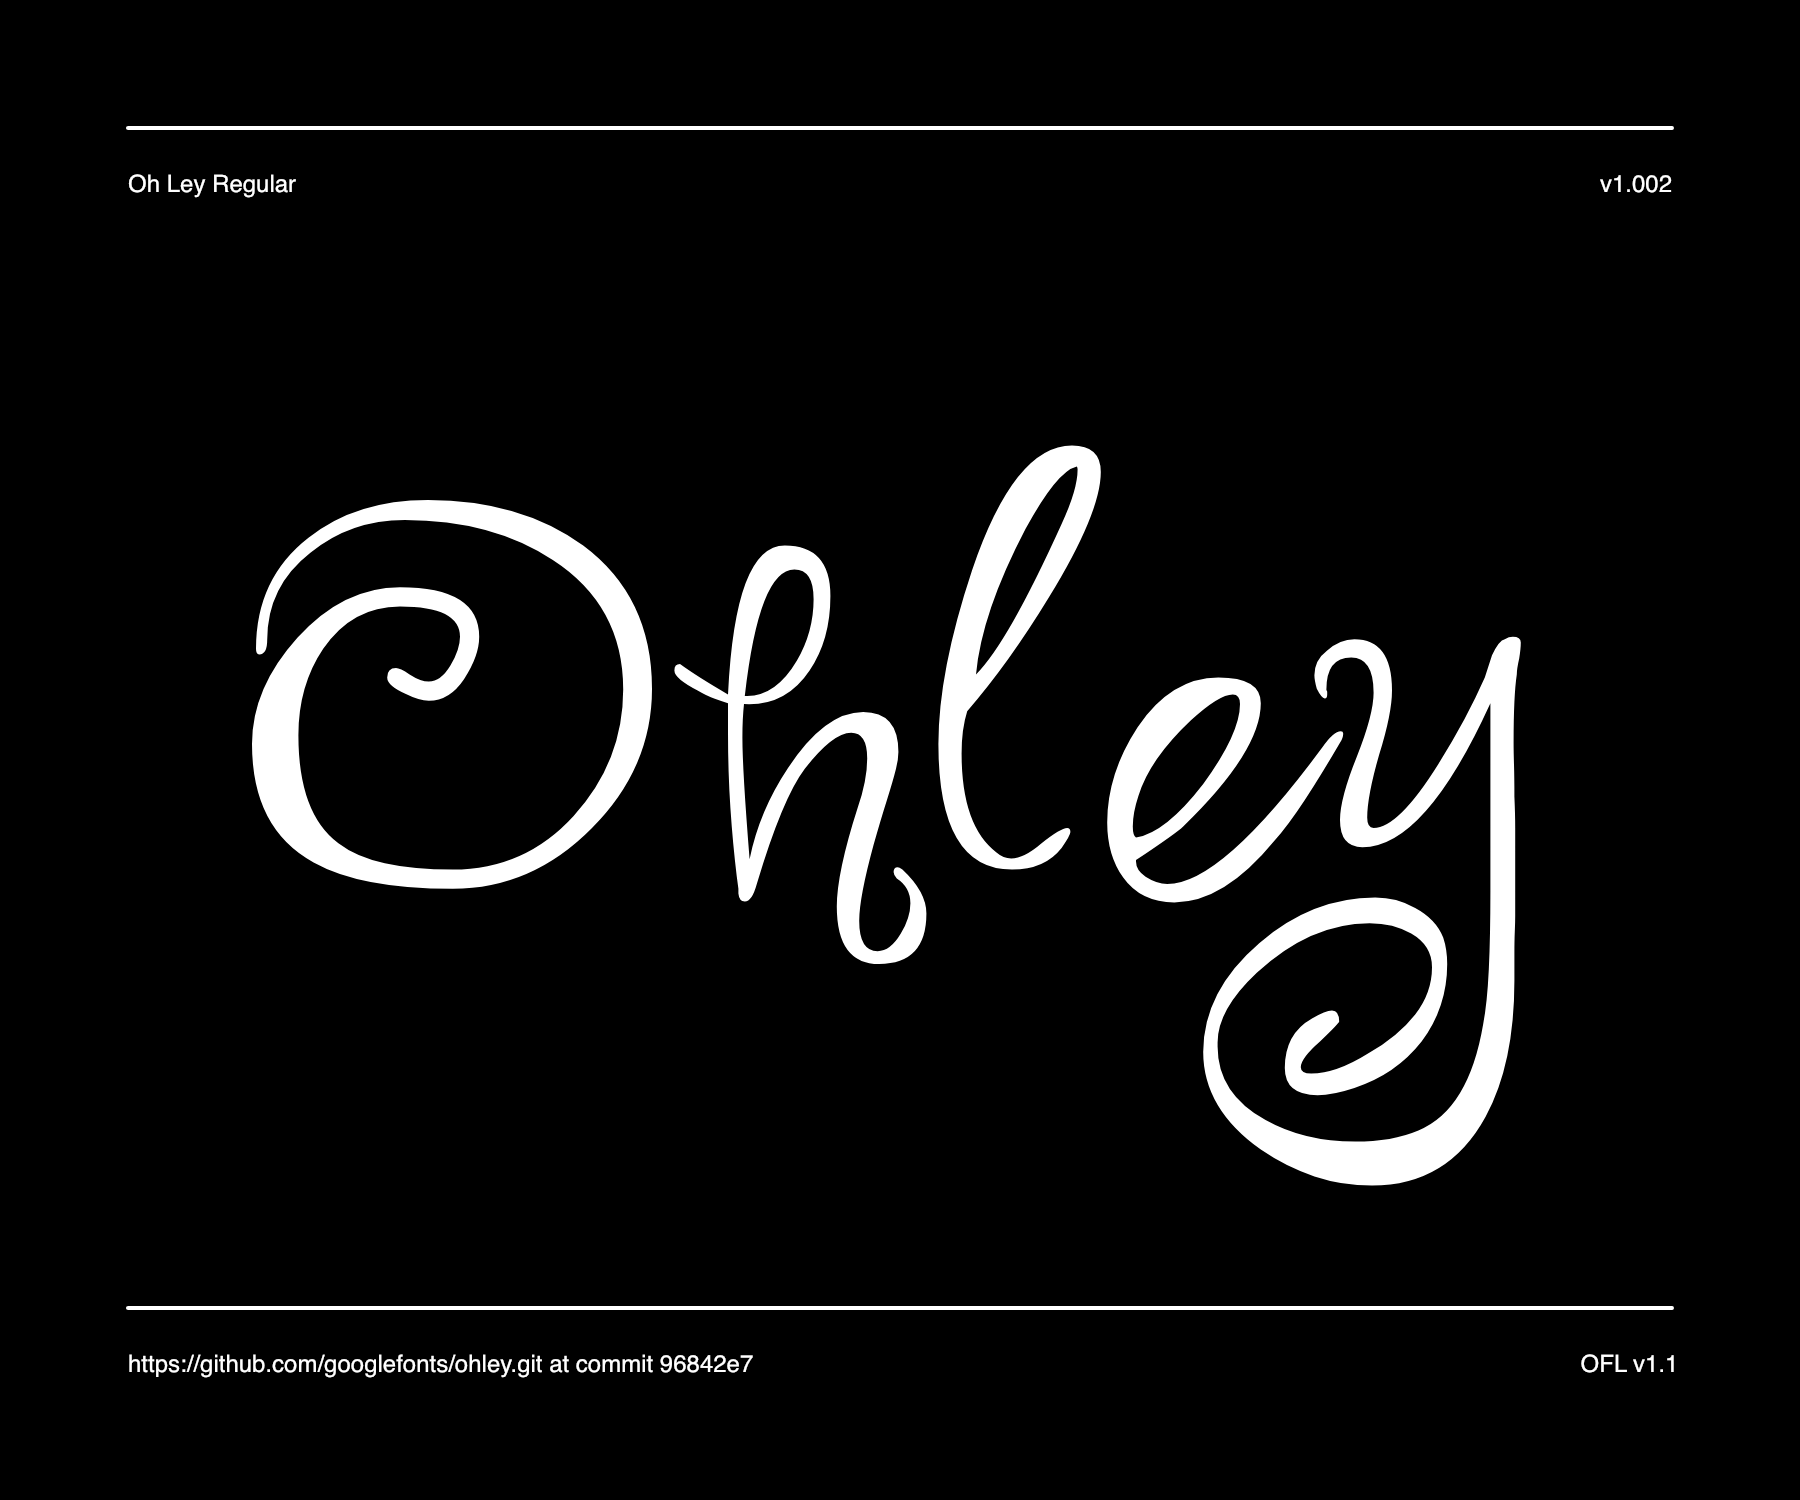
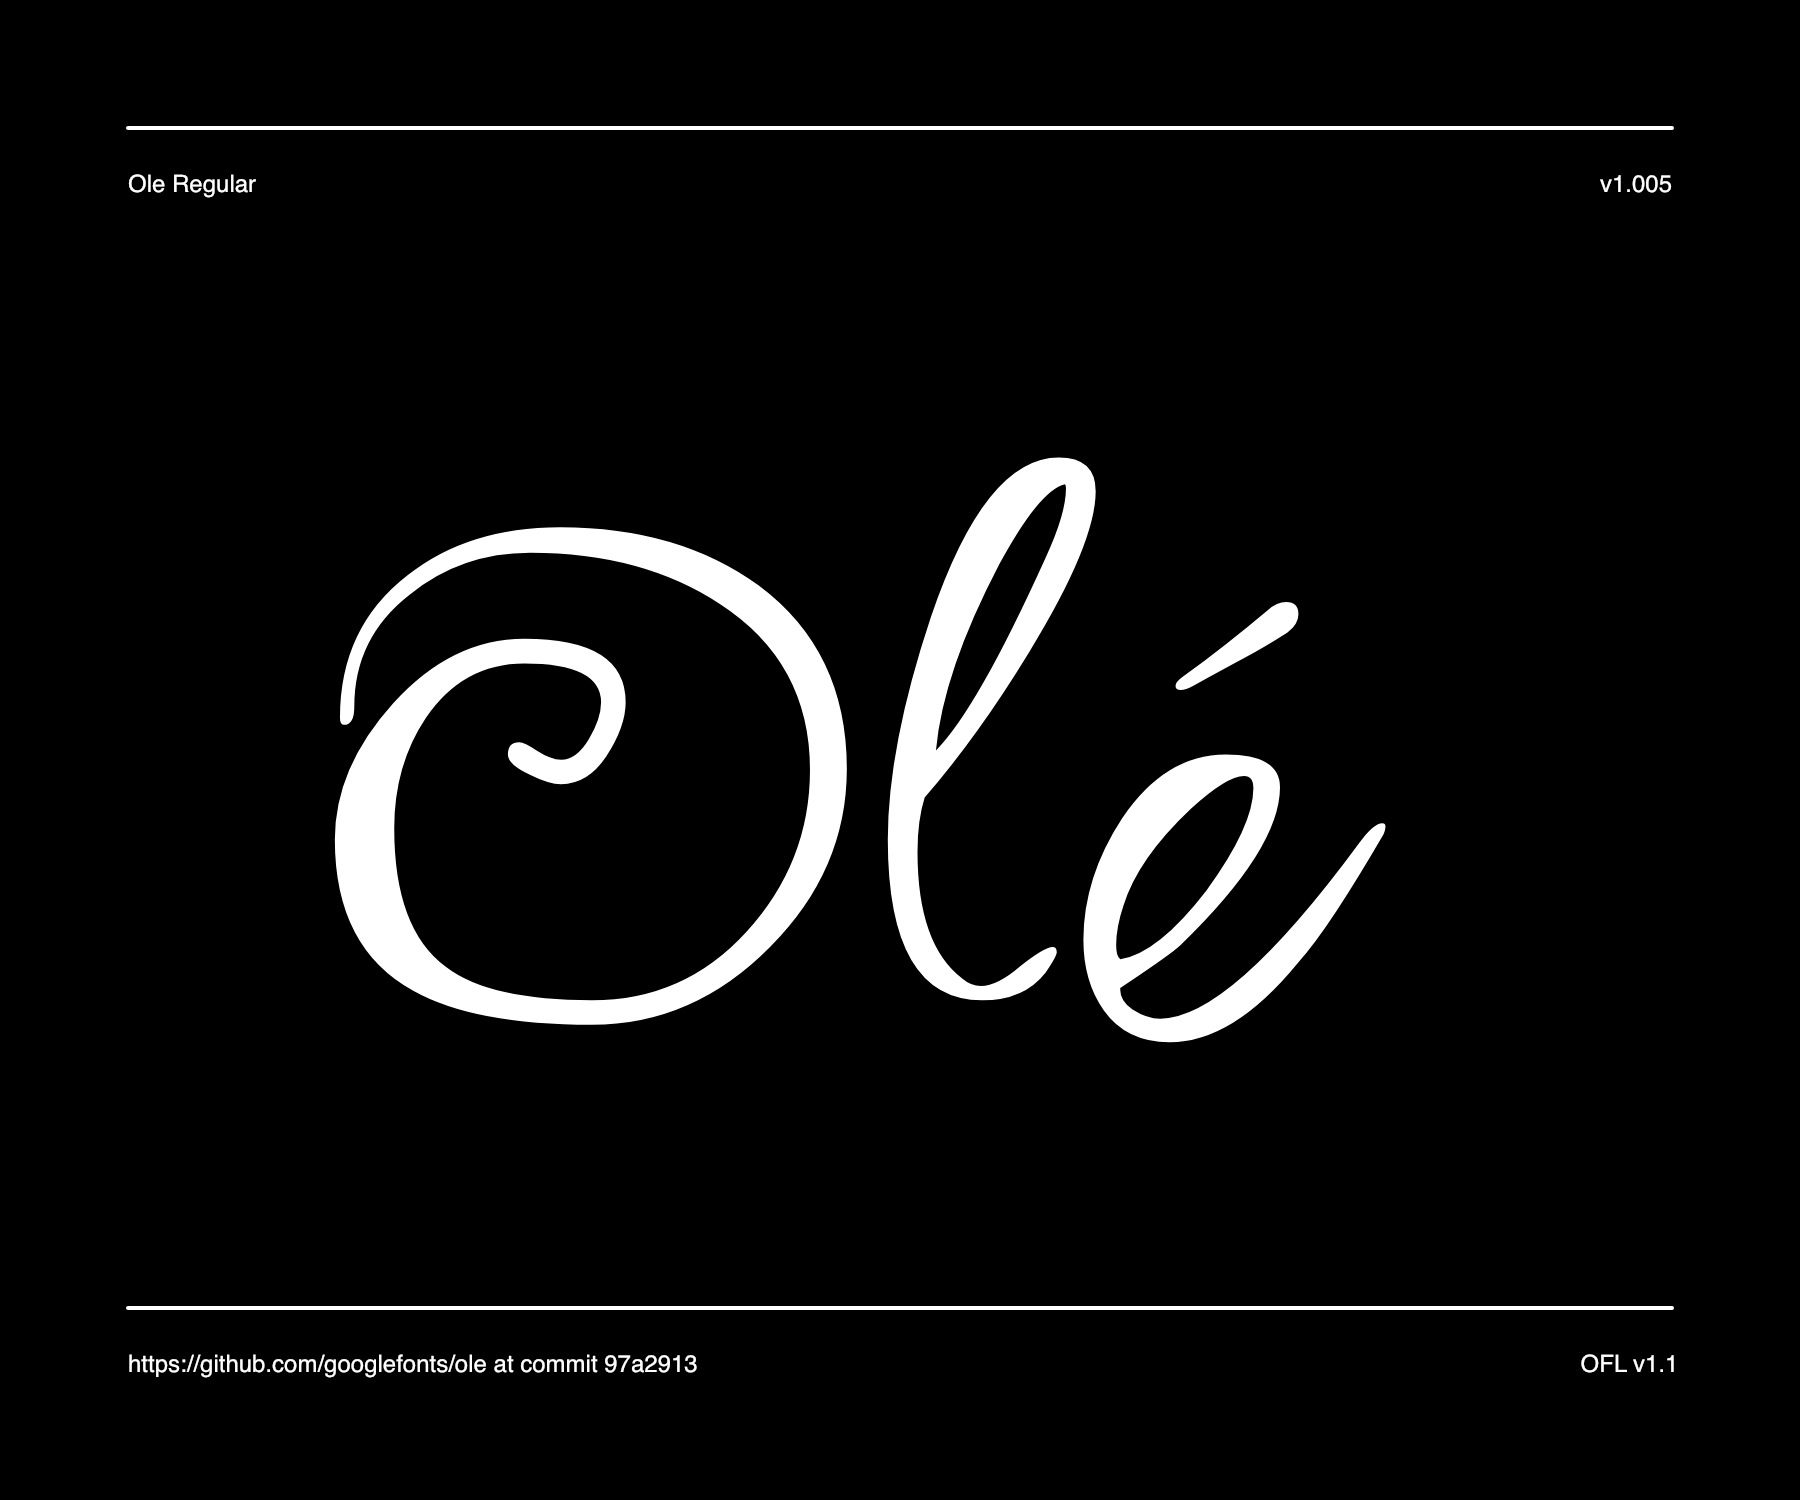
Readme + sample image updated

Changed region(s): [[0.1244, 0.276, 0.8711, 0.7973], [0.2489, 0.8893, 0.4044, 0.92], [0.0933, 0.092, 0.1556, 0.1533]]

diff --git a/documentation/image1.py b/documentation/image1.py
@@ -16,14 +16,14 @@ import argparse
 
 # Constants, these are the main "settings" for the image
 WIDTH, HEIGHT, MARGIN, FRAMES = 1800, 1500, 128, 1
-FONT_PATH = "../fonts/ttf/OhLey-Regular.ttf"
+FONT_PATH = "../fonts/ttf/Ole-Regular.ttf"
 FONT_LICENSE = "OFL v1.1"
 AUXILIARY_FONT = "Helvetica"
 AUXILIARY_FONT_SIZE = 24
-BIG_TEXT = "Ohley"
-BIG_TEXT_FONT_SIZE = 800
-BIG_TEXT_SIDE_MARGIN = MARGIN * 1.8
-BIG_TEXT_BOTTOM_MARGIN = MARGIN * 5
+BIG_TEXT = "Olé"
+BIG_TEXT_FONT_SIZE = 1024
+BIG_TEXT_SIDE_MARGIN = MARGIN * 2.4
+BIG_TEXT_BOTTOM_MARGIN = MARGIN * 4
 GRID_VIEW = False # Change this to "True" for a grid overlay
 
 # Handel the "--output" flag

diff --git a/README.md b/README.md
@@ -1,6 +1,6 @@
 # Ole
 
-Ole (a Spanish word, pronounced "oh ley") has a romantic and fun flavor. Have a little fun using the ornamental glyphs to spice up any design.
+Ole (a Spanish expression, pronounced "olé") has a romantic and fun flavour. Have a little fun using the ornamental glyphs to spice up any design.
 
 ![Sample Image](documentation/image1.png)
 
